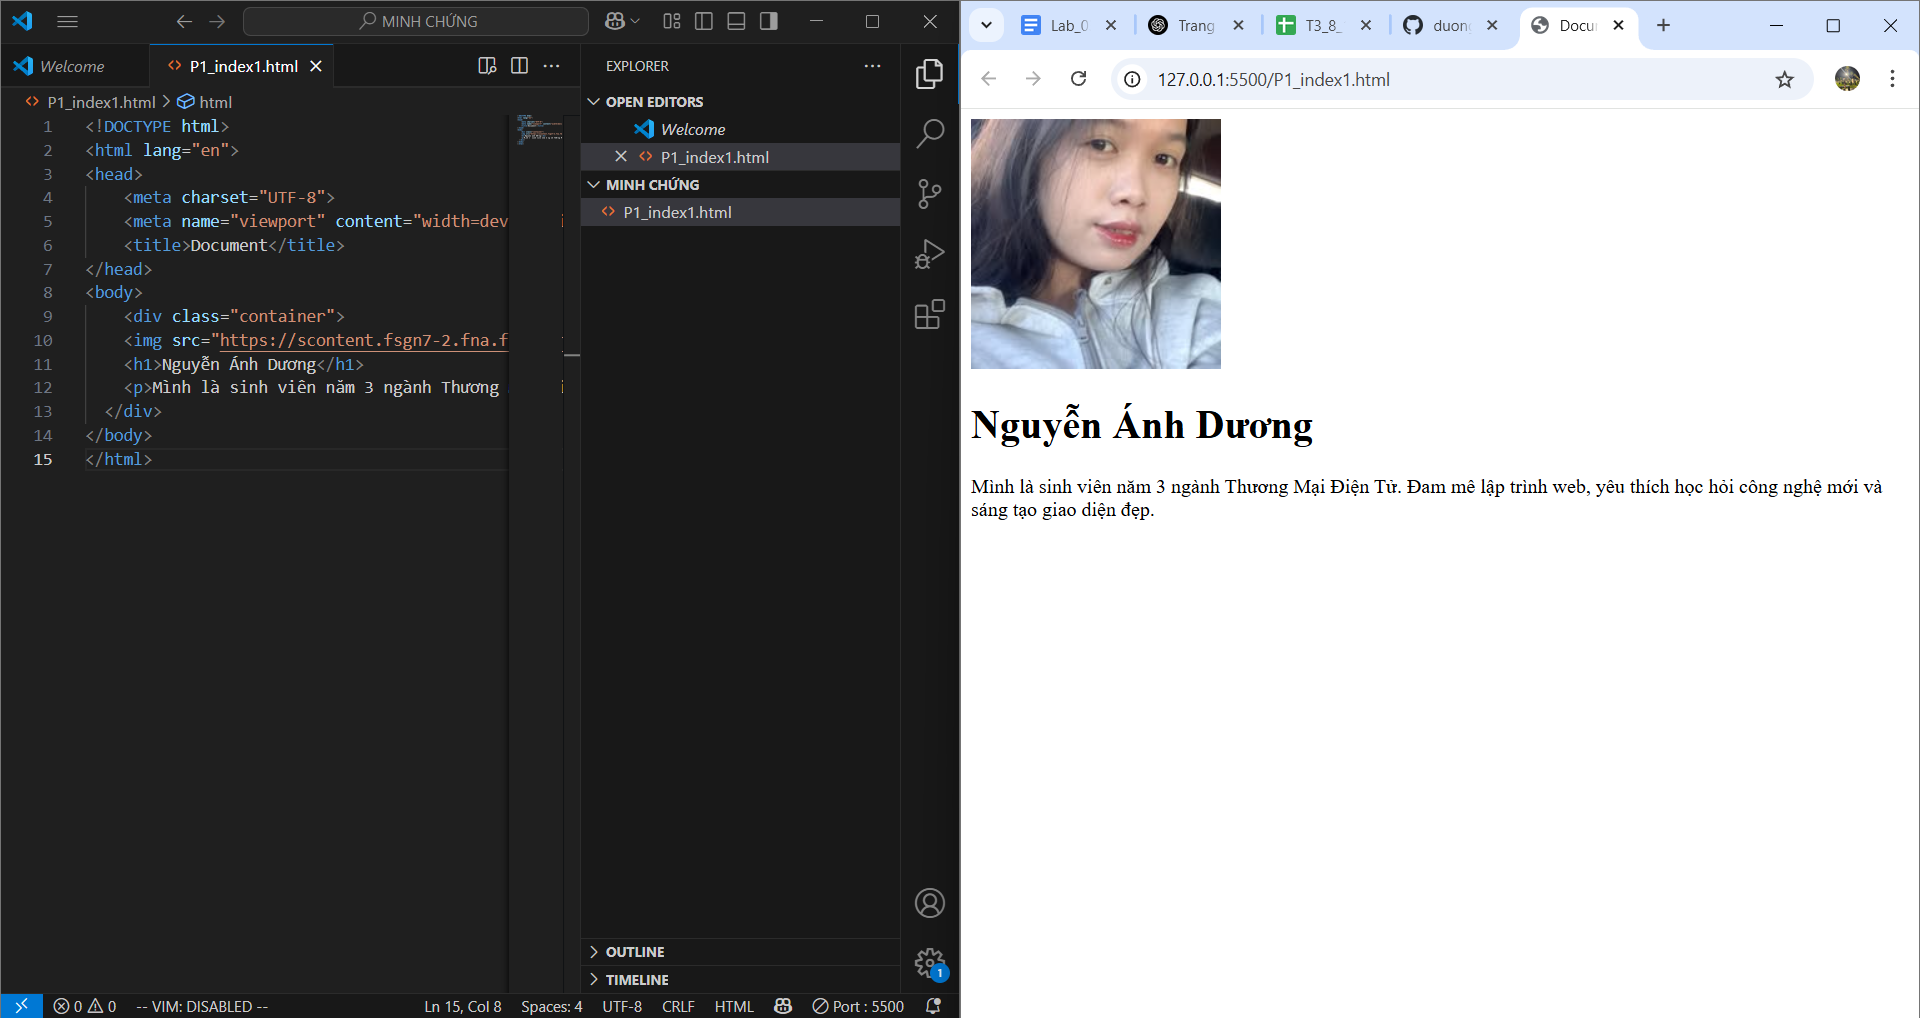
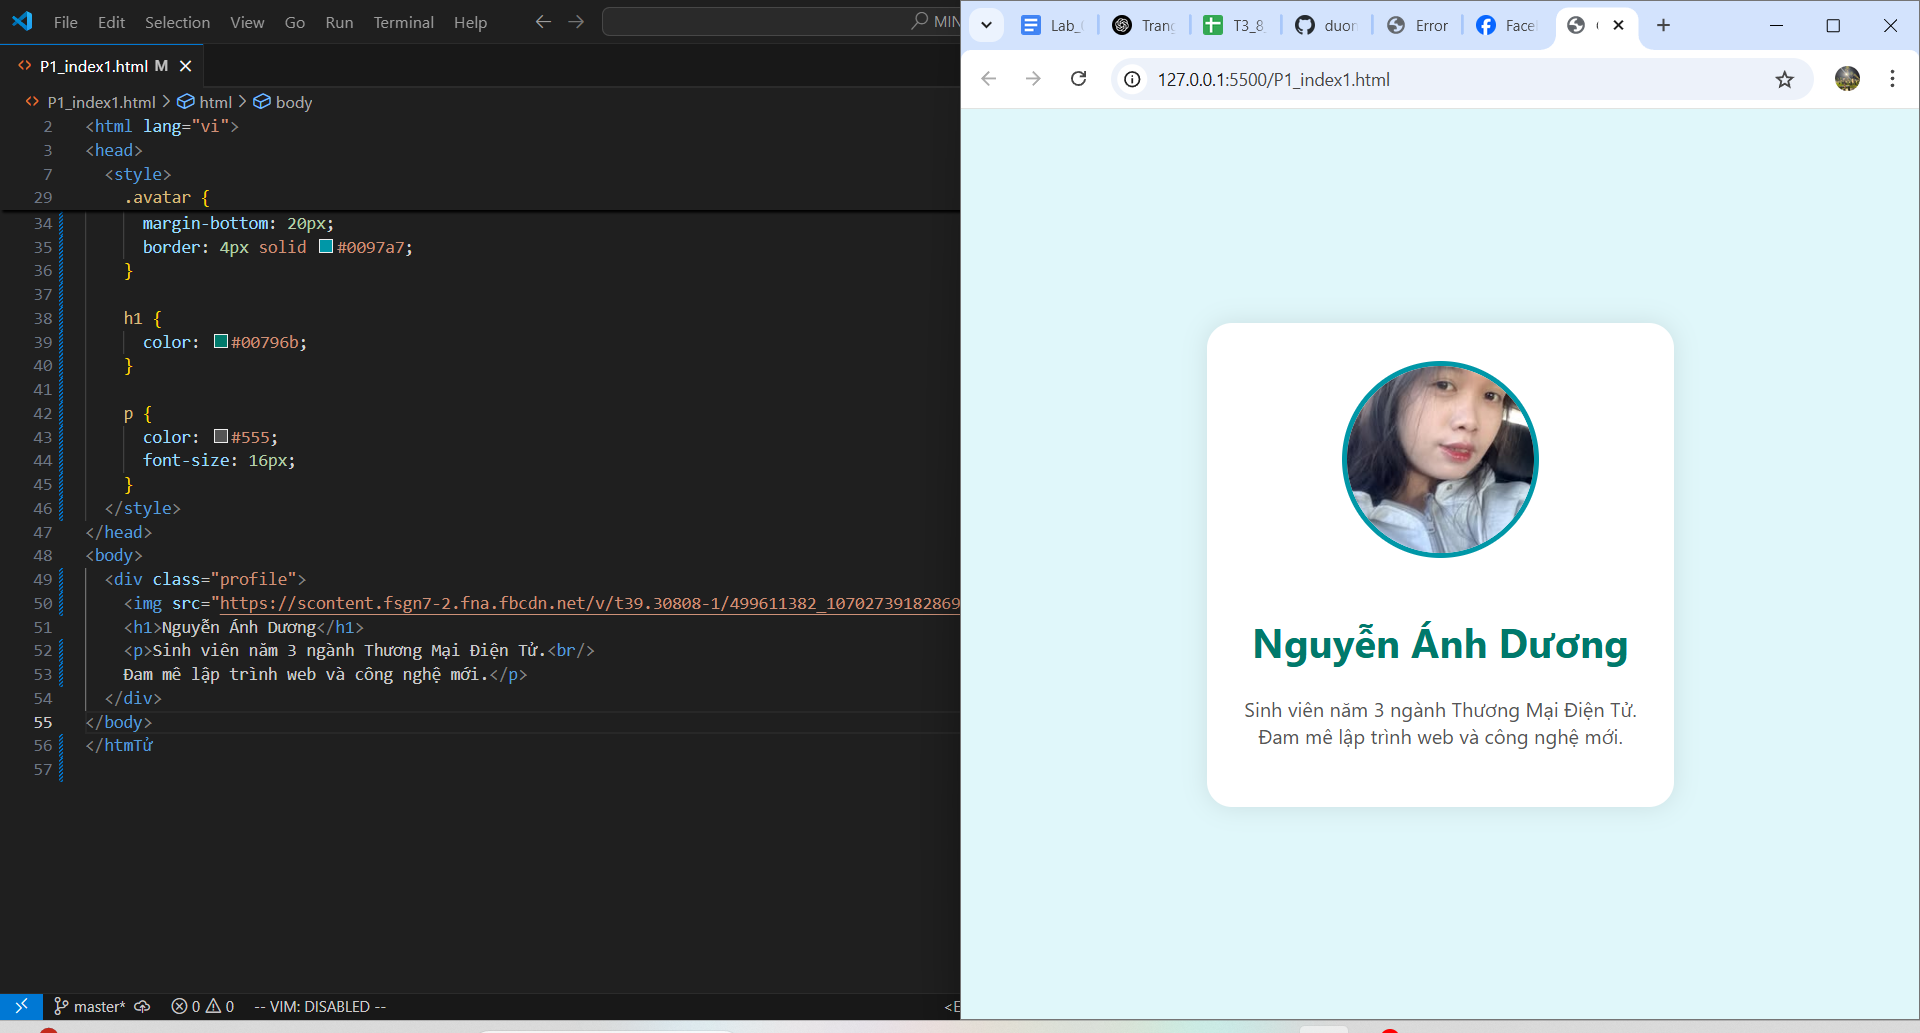
add file P1_index1.html + MC

diff --git a/P1_index1.html b/P1_index1.html
@@ -1,15 +1,56 @@
 <!DOCTYPE html>
-<html lang="en">
+<html lang="vi">
 <head>
-    <meta charset="UTF-8">
-    <meta name="viewport" content="width=device-width, initial-scale=1.0">
-    <title>Document</title>
+  <meta charset="UTF-8" />
+  <meta name="viewport" content="width=device-width, initial-scale=1.0" />
+  <title>Giới thiệu bản thân</title>
+  <style>
+    
+    body {
+      background-color: #e0f7fa; 
+      font-family: 'Segoe UI', Tahoma, Geneva, Verdana, sans-serif; 
+      margin: 0;
+      padding: 0;
+      display: flex;
+      justify-content: center; 
+      align-items: center;     
+      height: 100vh;           
+    }
+
+    .profile {
+      text-align: center;
+      background-color: #ffffff;
+      padding: 30px;
+      border-radius: 20px;
+      box-shadow: 0 0 20px rgba(0, 0, 0, 0.1);
+      max-width: 400px;
+    }
+
+    .avatar {
+      width: 150px;
+      height: 150px;
+      border-radius: 50%; 
+      object-fit: cover;
+      margin-bottom: 20px;
+      border: 4px solid #0097a7;
+    }
+
+    h1 {
+      color: #00796b;
+    }
+
+    p {
+      color: #555;
+      font-size: 16px;
+    }
+  </style>
 </head>
 <body>
-    <div class="container">
-    <img src="https://scontent.fsgn7-2.fna.fbcdn.net/v/t39.30808-1/499611382_1070273918286948_3833009634266450309_n.jpg?stp=dst-jpg_s200x200_tt6&_nc_cat=103&ccb=1-7&_nc_sid=e99d92&_nc_eui2=AeF0Hn5RNJt-R0qZjrRY1kDdZ0PMNhQ1PT1nQ8w2FDU9PdD6t4jiy96xfZJSHHg5cPoh6yOCiC7w55pULT0mjSq3&_nc_ohc=uA1YkgVSvasQ7kNvwEkWdKJ&_nc_oc=AdnOSMvgbH7nf30Do1j3dorQdZCI1VoN1m92H-YKM2fwdvzUbpLJzq386RIvreLpkjk&_nc_zt=24&_nc_ht=scontent.fsgn7-2.fna&_nc_gid=1MRrR04UmI1e-hRGPiwsmQ&oh=00_AfP-dpYnt55qtKunuqswTAQopTgw-KJcPQMYJrSIeD_UJg&oe=6856E954" alt="Ảnh đại diện" class="avatar" />
+  <div class="profile">
+    <img src="https://scontent.fsgn7-2.fna.fbcdn.net/v/t39.30808-1/499611382_1070273918286948_3833009634266450309_n.jpg?stp=dst-jpg_s200x200_tt6&_nc_cat=103&ccb=1-7&_nc_sid=e99d92&_nc_eui2=AeF0Hn5RNJt-R0qZjrRY1kDdZ0PMNhQ1PT1nQ8w2FDU9PdD6t4jiy96xfZJSHHg5cPoh6yOCiC7w55pULT0mjSq3&_nc_ohc=uA1YkgVSvasQ7kNvwEkWdKJ&_nc_oc=AdnOSMvgbH7nf30Do1j3dorQdZCI1VoN1m92H-YKM2fwdvzUbpLJzq386RIvreLpkjk&_nc_zt=24&_nc_ht=scontent.fsgn7-2.fna&_nc_gid=ZDYp4rpsNUr5JITFT2uB4g&oh=00_AfOdKBT137Ei1QVoCHKv-jqQ96STOJurhn0n8M977cDIJg&oe=6856E954" alt="Ảnh đại diện" class="avatar" />
     <h1>Nguyễn Ánh Dương</h1>
-    <p>Mình là sinh viên năm 3 ngành Thương Mại Điện Tử. Đam mê lập trình web, yêu thích học hỏi công nghệ mới và sáng tạo giao diện đẹp.</p>
+    <p>Sinh viên năm 3 ngành Thương Mại Điện Tử.<br/>
+    Đam mê lập trình web và công nghệ mới.</p>
   </div>
 </body>
-</html>
+</htmTử
